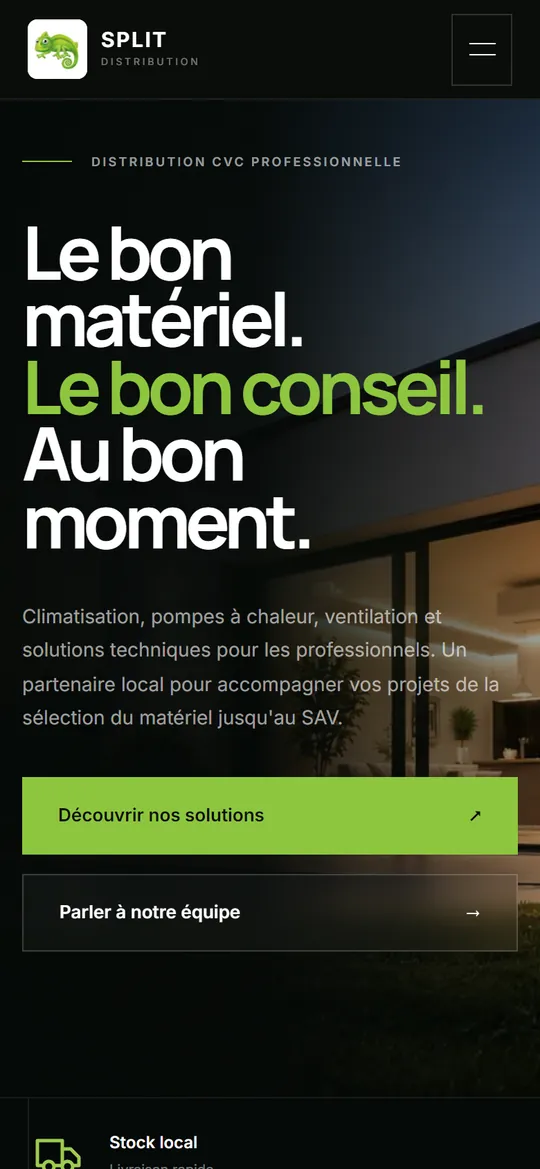
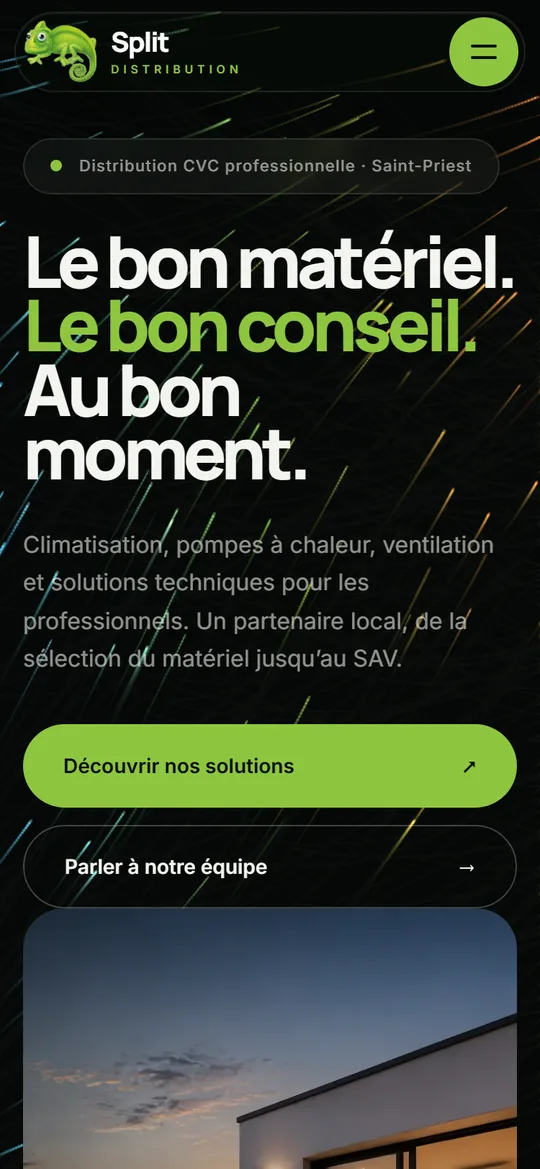
Split Distribution : nouvelles captures du site refait

diff --git a/index.html b/index.html
@@ -379,7 +379,7 @@
                         <div class="deck__about">
                             <p class="deck__kind">Distribution CVC · Site professionnel</p>
                             <h3 class="deck__name">Split Distribution</h3>
-                            <p class="deck__sum">Six gammes techniques, les fabricants partenaires et une demande de référence en quelques clics.</p>
+                            <p class="deck__sum">Six gammes techniques, les fabricants partenaires et une demande de devis en quatre étapes.</p>
                             <ul class="deck__tags"><li>Site professionnel</li><li>Catalogue</li></ul>
                         </div>
                         <span class="link" aria-hidden="true">Voir le projet en entier<svg class="i"><use href="#i-arrow"/></svg></span>
@@ -916,10 +916,10 @@
     "split": {
         "name": "Split Distribution", "sector": "Distribution CVC", "type": "Site professionnel", "year": "2026", "url": "Split Distribution",
         "tint": "#E5EDE1",
-        "summary": "Le site d’un distributeur de climatisation, de pompes à chaleur et de ventilation pour les professionnels : gammes, services, fabricants partenaires et demande de référence.",
-        "points": ["Six gammes de solutions techniques", "Conseil, disponibilité, logistique et SAV", "Fabricants partenaires", "Demande de référence ou de conseil"],
+        "summary": "Le site d’un distributeur de climatisation, de pompes à chaleur et de ventilation pour les professionnels : gammes, services, fabricants partenaires et demande de devis en quatre étapes.",
+        "points": ["Six gammes de solutions techniques", "Conseil, disponibilité, logistique et SAV", "Fabricants partenaires", "Demande de devis en quatre étapes"],
         "tags": ["Site professionnel", "Catalogue"],
-        "full": "/assets/work/split-full.webp", "fullHeight": 4565,
+        "full": "/assets/work/split-full.webp", "fullHeight": 6415,
         "phones": ["/assets/work/split-m.webp"]
     },
     "crafterlity": {

diff --git a/boutique-en-ligne.html b/boutique-en-ligne.html
@@ -617,19 +617,19 @@
         "year": "2026",
         "url": "Split Distribution",
         "tint": "#E5EDE1",
-        "summary": "Le site d’un distributeur de climatisation, de pompes à chaleur et de ventilation pour les professionnels : gammes, services, fabricants partenaires et demande de référence.",
+        "summary": "Le site d’un distributeur de climatisation, de pompes à chaleur et de ventilation pour les professionnels : gammes, services, fabricants partenaires et demande de devis en quatre étapes.",
         "points": [
             "Six gammes de solutions techniques",
             "Conseil, disponibilité, logistique et SAV",
             "Fabricants partenaires",
-            "Demande de référence ou de conseil"
+            "Demande de devis en quatre étapes"
         ],
         "tags": [
             "Site professionnel",
             "Catalogue"
         ],
         "full": "/assets/work/split-full.webp",
-        "fullHeight": 4565,
+        "fullHeight": 6415,
         "phones": [
             "/assets/work/split-m.webp"
         ]

diff --git a/site-internet-artisan.html b/site-internet-artisan.html
@@ -670,19 +670,19 @@
         "year": "2026",
         "url": "Split Distribution",
         "tint": "#E5EDE1",
-        "summary": "Le site d’un distributeur de climatisation, de pompes à chaleur et de ventilation pour les professionnels : gammes, services, fabricants partenaires et demande de référence.",
+        "summary": "Le site d’un distributeur de climatisation, de pompes à chaleur et de ventilation pour les professionnels : gammes, services, fabricants partenaires et demande de devis en quatre étapes.",
         "points": [
             "Six gammes de solutions techniques",
             "Conseil, disponibilité, logistique et SAV",
             "Fabricants partenaires",
-            "Demande de référence ou de conseil"
+            "Demande de devis en quatre étapes"
         ],
         "tags": [
             "Site professionnel",
             "Catalogue"
         ],
         "full": "/assets/work/split-full.webp",
-        "fullHeight": 4565,
+        "fullHeight": 6415,
         "phones": [
             "/assets/work/split-m.webp"
         ]
